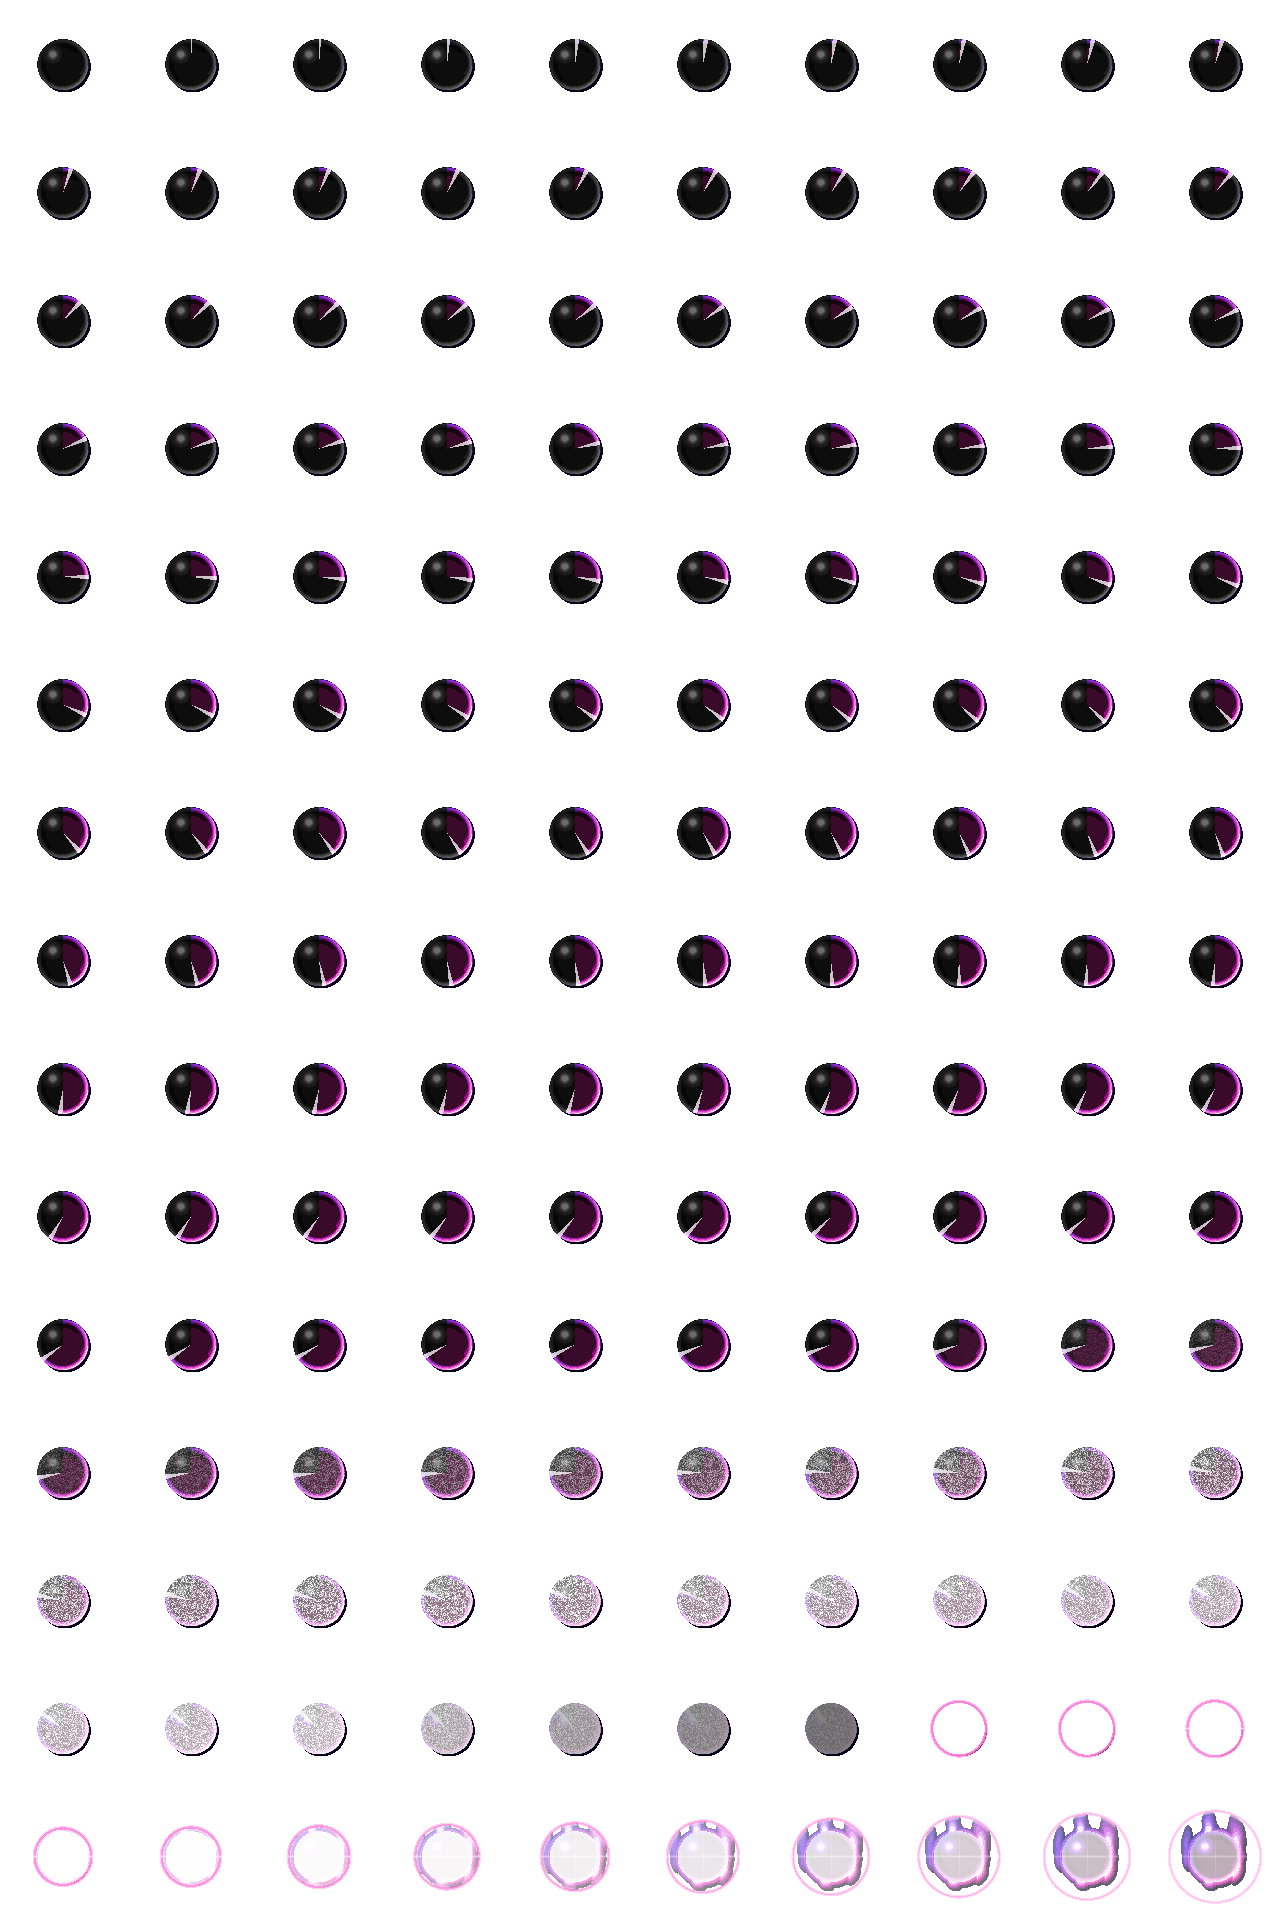
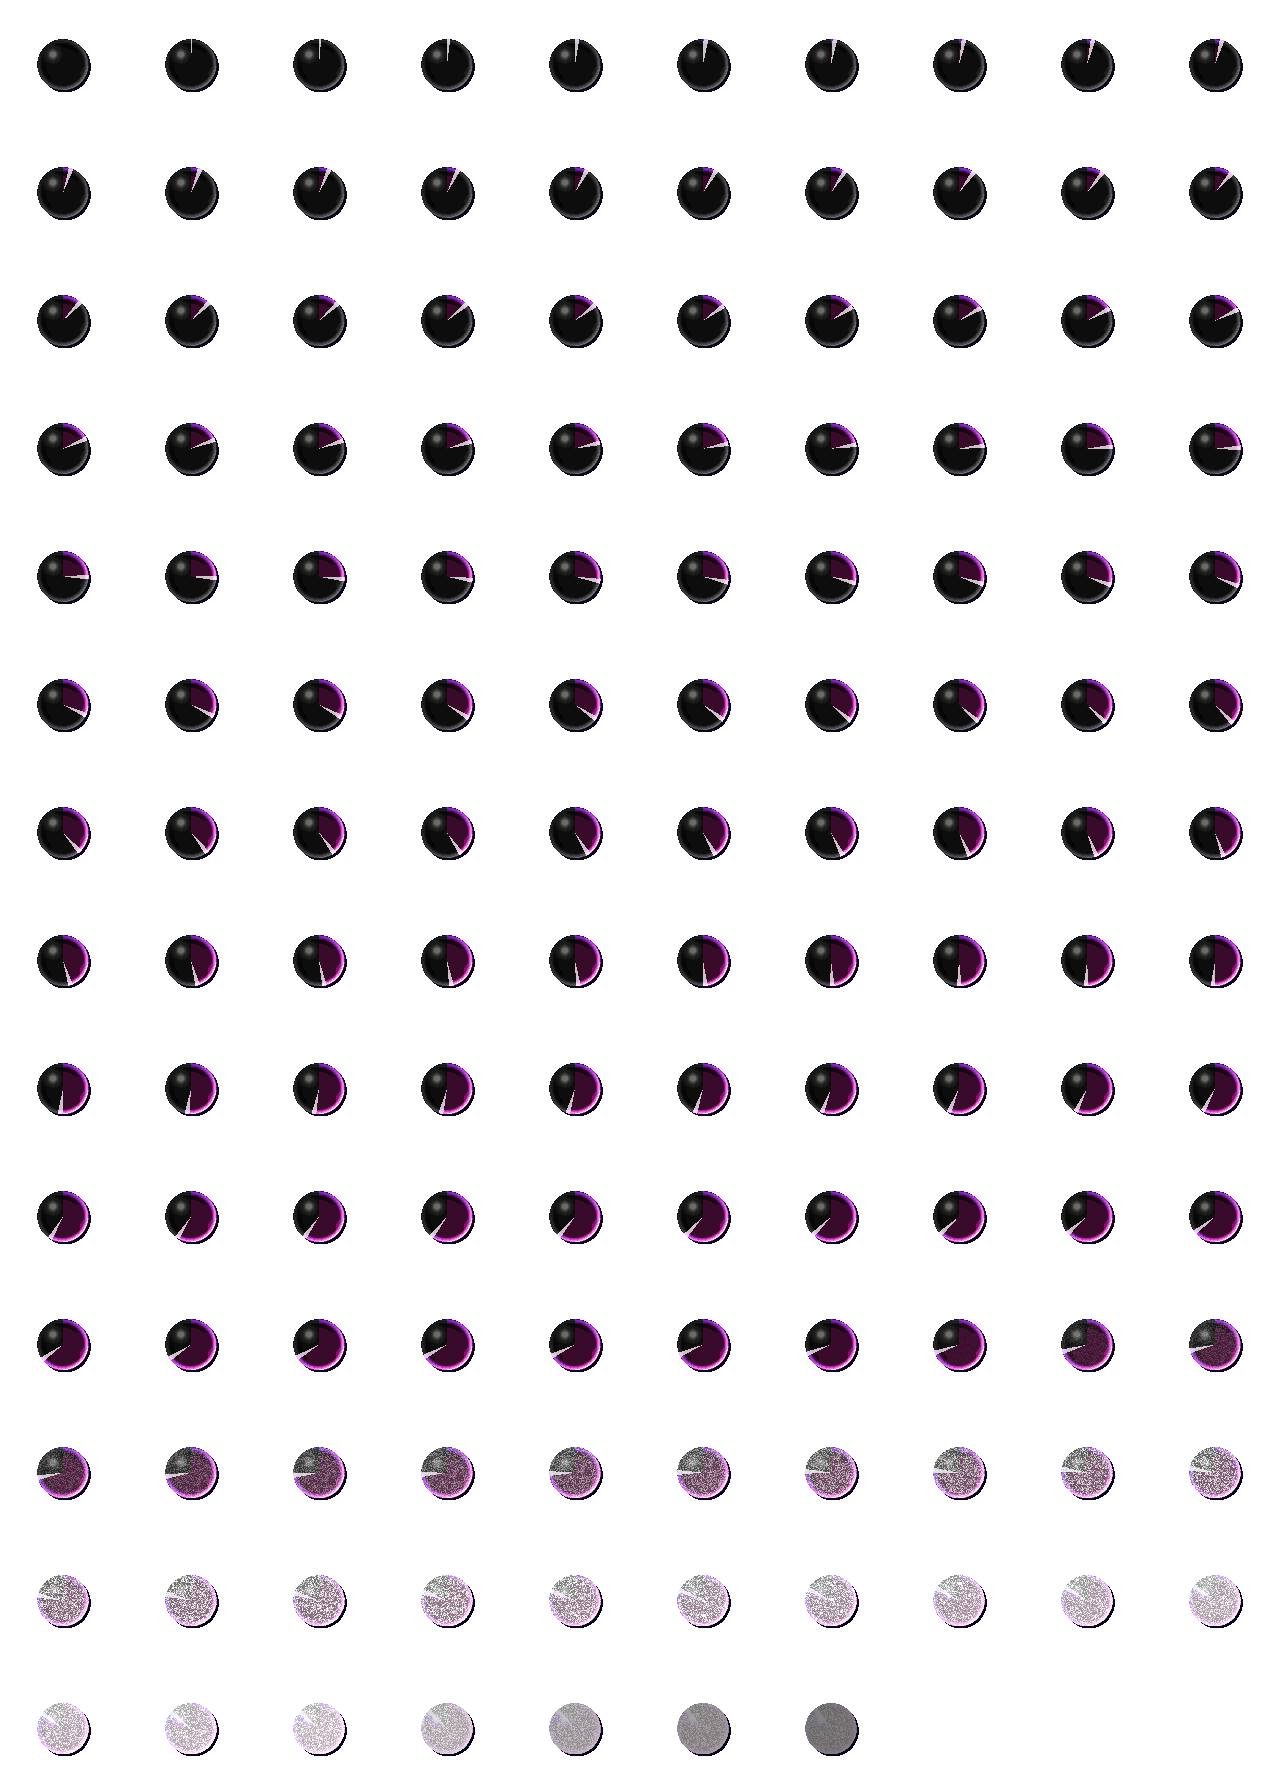
Update Blightfall's loading and ready animations
New art for both, now 137 loading frames instead of 150. The builder reads
the frame count from the sheet itself rather than carrying it in a table,
so a sheet of a different length just works.

diff --git a/tools/build_anims.py b/tools/build_anims.py
@@ -26,16 +26,16 @@ ADDON_PATH = "Interface\\AddOns\\Blightfall\\Media\\Anim\\"
 ANIMS = {}
 
 
-def add(key, src, frames, cols=10, cell=128, out=None):
-    """out defaults to the source cell size, i.e. no rescaling."""
-    ANIMS[key] = dict(src=src, frames=frames, cols=cols, cell=cell, out=out or cell)
+def add(key, src, cols=10, cell=128, out=None):
+    """Frame counts are read from the sheet; out defaults to the cell size."""
+    ANIMS[key] = dict(src=src, cols=cols, cell=cell, out=out or cell)
 
 
 for stage, folder, name in (("reaper", "reaper", "Reaper"), ("blight", "blightfall", "Blightfall")):
-    add(f"{stage}_loading", f"{folder}/{name}_Loading.png", 150)
-    add(f"{stage}_ready", f"{folder}/{name}_Ready.png", 60)
-    add(f"{stage}_idle", f"{folder}/{name}_idle.png", 60)
-    add(f"{stage}_onuse", f"{folder}/{name}_Onuse.png", 15)
+    add(f"{stage}_loading", f"{folder}/{name}_Loading.png")
+    add(f"{stage}_ready", f"{folder}/{name}_Ready.png")
+    add(f"{stage}_idle", f"{folder}/{name}_idle.png")
+    add(f"{stage}_onuse", f"{folder}/{name}_Onuse.png")
 
 PUTREFY_VARIANTS = ["blod", "blod-prf", "frst", "frst-prf", "uhly", "uhly-prf"]
 for variant in PUTREFY_VARIANTS:
@@ -43,11 +43,11 @@ for variant in PUTREFY_VARIANTS:
     for size in ("big", "sml"):
         stem = f"{color}-{style}-{size}" if style else f"{color}-{size}"
         key = f"putrefy_{variant.replace('-', '_')}_{size}"
-        add(key + "_idle", f"putrefy/{stem}-idle.png", 60)
-        add(key + "_onuse", f"putrefy/{stem}-Onuse.png", 15)
+        add(key + "_idle", f"putrefy/{stem}-idle.png")
+        add(key + "_onuse", f"putrefy/{stem}-Onuse.png")
 
 # Perfect-combo celebration, kept at its native 188px cells.
-add("celebration", "celebration/helios_rap.png", 528, cols=24, cell=188)
+add("celebration", "celebration/helios_rap.png", cols=24, cell=188)
 
 
 def next_pot(v):
@@ -61,8 +61,18 @@ def build(key, spec):
     sheet = Image.open(os.path.join(SRC, spec["src"])).convert("RGBA")
     cell, out, cols = spec["cell"], spec["out"], spec["cols"]
 
+    # The sheet's grid may have spare cells at the end, so the real length is
+    # the last one that still has something drawn in it.
+    total = (sheet.size[0] // cell) * (sheet.size[1] // cell)
+    count = 0
+    for i in range(total):
+        x, y = (i % cols) * cell, (i // cols) * cell
+        if sheet.crop((x, y, x + cell, y + cell)).getbbox():
+            count = i + 1
+    spec["frames"] = count
+
     frames = []
-    for i in range(spec["frames"]):
+    for i in range(count):
         x, y = (i % cols) * cell, (i // cols) * cell
         frame = sheet.crop((x, y, x + cell, y + cell))
         if out != cell:
